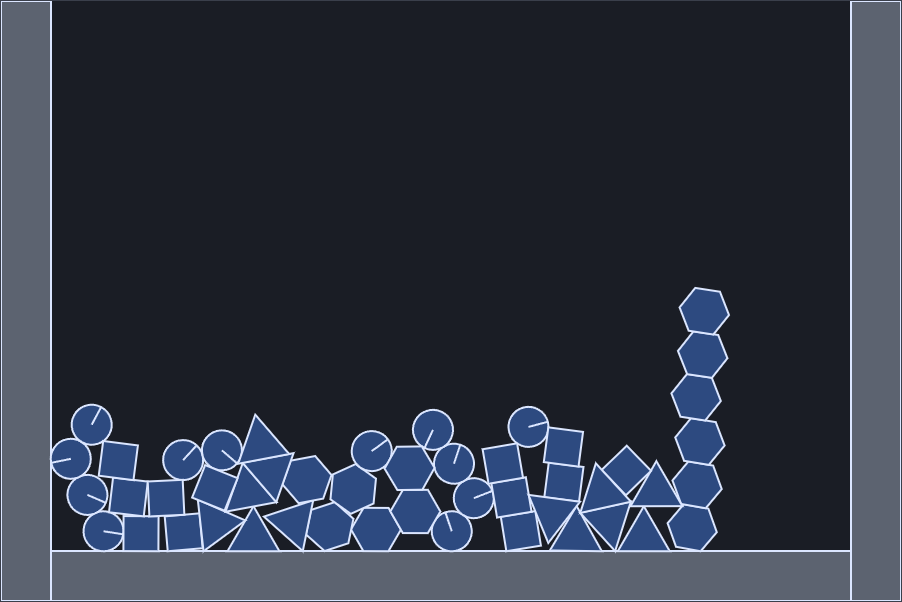
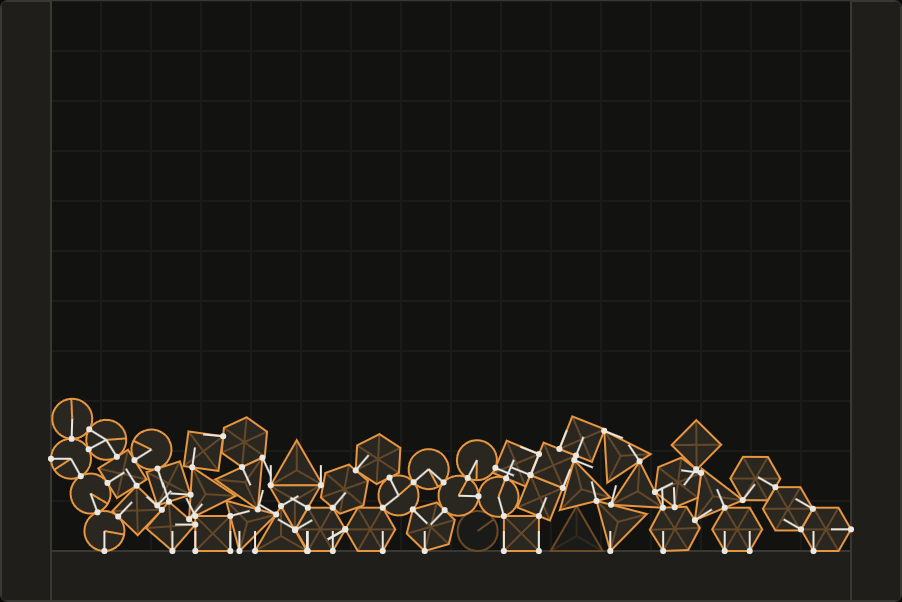
re-shoot impulse post images in the new demo design

diff --git a/posts/impulse-physics-engine.html b/posts/impulse-physics-engine.html
@@ -132,29 +132,29 @@ advance(frameSeconds: <span class="kw">number</span>): <span class="kw">number</
       <h2 id="what-it-looks-like">what it looks like</h2>
 
       <figure>
-        <img src="img/impulse-pyramid.png" width="902" height="602" alt="A pyramid of 55 boxes drawn in dark blue on a dark background." loading="lazy">
-        <figcaption>a pyramid of 55 boxes, six seconds in. the darker blue means the bodies are asleep: the solver has stopped spending time on them.</figcaption>
+        <img src="img/impulse-pyramid.png" width="902" height="602" alt="A pyramid of 55 boxes drawn with dim amber outlines on a dark grid." loading="lazy">
+        <figcaption>a pyramid of 55 boxes, six seconds in. the dim outlines mean the bodies are asleep: the solver has stopped spending time on them.</figcaption>
       </figure>
 
       <figure>
-        <img src="img/impulse-polygons.png" width="902" height="602" alt="A pile of circles, boxes, triangles and hexagons in a walled container, with red contact points and normals." loading="lazy">
-        <figcaption>a mixed pile of circles, boxes, triangles and hexagons. the red dots and lines are contact points and normals, drawn straight from the solver's data.</figcaption>
+        <img src="img/impulse-polygons.png" width="902" height="602" alt="A pile of circles, boxes, triangles and hexagons in a walled container, with white contact points and normals." loading="lazy">
+        <figcaption>a mixed pile of circles, boxes, triangles and hexagons. the white dots and lines are contact points and normals, drawn straight from the solver's data.</figcaption>
       </figure>
 
       <div class="pair">
         <figure>
-          <img src="img/impulse-wrecking.png" width="902" height="602" alt="A ten-box tower in dark blue with a wrecking ball on a rope swinging toward it." loading="lazy">
+          <img src="img/impulse-wrecking.png" width="902" height="602" alt="A ten-box tower in dim amber with a wrecking ball on a rope swinging toward it." loading="lazy">
           <figcaption>a 10-box tower asleep, a wrecking ball on a rope swinging in.</figcaption>
         </figure>
         <figure>
-          <img src="img/impulse-wrecking-hit.png" width="902" height="602" alt="The same tower in bright blue after the ball hit it, with two boxes knocked off the top." loading="lazy">
+          <img src="img/impulse-wrecking-hit.png" width="902" height="602" alt="The same tower in bright amber after the ball hit it, with two boxes knocked off the top." loading="lazy">
           <figcaption>under half a second later: the ball hit, the tower woke up, and it lost its top two boxes.</figcaption>
         </figure>
       </div>
 
       <figure>
-        <img src="img/impulse-joints.png" width="902" height="602" alt="A motor-driven paddle, a hinged arm and a spring with a ball, drawn with green joint markers." loading="lazy">
-        <figcaption>the joints scene: a motor-driven paddle, a hinge that stops at its angle limits, and a spring. green marks the joints.</figcaption>
+        <img src="img/impulse-joints.png" width="902" height="602" alt="A motor-driven paddle, a hinged arm and a spring with a ball, drawn with light grey joint markers." loading="lazy">
+        <figcaption>the joints scene: a motor-driven paddle, a hinge that stops at its angle limits, and a spring. light grey marks the joints.</figcaption>
       </figure>
 
       <h2 id="the-numbers">the numbers</h2>

diff --git a/src/posts/impulse-physics-engine.html b/src/posts/impulse-physics-engine.html
@@ -61,29 +61,29 @@ advance(frameSeconds: <span class="kw">number</span>): <span class="kw">number</
       <h2>what it looks like</h2>
 
       <figure>
-        <img src="img/impulse-pyramid.png" width="902" height="602" alt="A pyramid of 55 boxes drawn in dark blue on a dark background." loading="lazy">
-        <figcaption>a pyramid of 55 boxes, six seconds in. the darker blue means the bodies are asleep: the solver has stopped spending time on them.</figcaption>
+        <img src="img/impulse-pyramid.png" width="902" height="602" alt="A pyramid of 55 boxes drawn with dim amber outlines on a dark grid." loading="lazy">
+        <figcaption>a pyramid of 55 boxes, six seconds in. the dim outlines mean the bodies are asleep: the solver has stopped spending time on them.</figcaption>
       </figure>
 
       <figure>
-        <img src="img/impulse-polygons.png" width="902" height="602" alt="A pile of circles, boxes, triangles and hexagons in a walled container, with red contact points and normals." loading="lazy">
-        <figcaption>a mixed pile of circles, boxes, triangles and hexagons. the red dots and lines are contact points and normals, drawn straight from the solver's data.</figcaption>
+        <img src="img/impulse-polygons.png" width="902" height="602" alt="A pile of circles, boxes, triangles and hexagons in a walled container, with white contact points and normals." loading="lazy">
+        <figcaption>a mixed pile of circles, boxes, triangles and hexagons. the white dots and lines are contact points and normals, drawn straight from the solver's data.</figcaption>
       </figure>
 
       <div class="pair">
         <figure>
-          <img src="img/impulse-wrecking.png" width="902" height="602" alt="A ten-box tower in dark blue with a wrecking ball on a rope swinging toward it." loading="lazy">
+          <img src="img/impulse-wrecking.png" width="902" height="602" alt="A ten-box tower in dim amber with a wrecking ball on a rope swinging toward it." loading="lazy">
           <figcaption>a 10-box tower asleep, a wrecking ball on a rope swinging in.</figcaption>
         </figure>
         <figure>
-          <img src="img/impulse-wrecking-hit.png" width="902" height="602" alt="The same tower in bright blue after the ball hit it, with two boxes knocked off the top." loading="lazy">
+          <img src="img/impulse-wrecking-hit.png" width="902" height="602" alt="The same tower in bright amber after the ball hit it, with two boxes knocked off the top." loading="lazy">
           <figcaption>under half a second later: the ball hit, the tower woke up, and it lost its top two boxes.</figcaption>
         </figure>
       </div>
 
       <figure>
-        <img src="img/impulse-joints.png" width="902" height="602" alt="A motor-driven paddle, a hinged arm and a spring with a ball, drawn with green joint markers." loading="lazy">
-        <figcaption>the joints scene: a motor-driven paddle, a hinge that stops at its angle limits, and a spring. green marks the joints.</figcaption>
+        <img src="img/impulse-joints.png" width="902" height="602" alt="A motor-driven paddle, a hinged arm and a spring with a ball, drawn with light grey joint markers." loading="lazy">
+        <figcaption>the joints scene: a motor-driven paddle, a hinge that stops at its angle limits, and a spring. light grey marks the joints.</figcaption>
       </figure>
 
       <h2>the numbers</h2>

diff --git a/index.html b/index.html
@@ -140,7 +140,7 @@
           <p class="stack-card__links"><a class="roll" href="posts/impulse-physics-engine"><span class="roll__in" data-text="write-up">write-up</span></a><a class="roll" href="https://github.com/kaan0d/impulse" target="_blank" rel="noopener"><span class="roll__in" data-text="source">source</span></a></p>
         </div>
         <div class="stack-card__visual media">
-          <img src="posts/img/impulse-pyramid.png" width="902" height="602" alt="Impulse demo: a ten-row pyramid of blue boxes resting stable on a grey floor." loading="lazy">
+          <img src="posts/img/impulse-pyramid.png" width="902" height="602" alt="Impulse demo: a ten-row pyramid of boxes with dim amber outlines resting stable on a dark floor." loading="lazy">
         </div>
       </div>
     </article>

diff --git a/src/index.html b/src/index.html
@@ -83,7 +83,7 @@
           <p class="stack-card__links"><a class="roll" href="posts/impulse-physics-engine">${ROLL}write-up</a><a class="roll" href="https://github.com/kaan0d/impulse" target="_blank" rel="noopener">${ROLL}source</a></p>
         </div>
         <div class="stack-card__visual media">
-          <img src="posts/img/impulse-pyramid.png" width="902" height="602" alt="Impulse demo: a ten-row pyramid of blue boxes resting stable on a grey floor." loading="lazy">
+          <img src="posts/img/impulse-pyramid.png" width="902" height="602" alt="Impulse demo: a ten-row pyramid of boxes with dim amber outlines resting stable on a dark floor." loading="lazy">
         </div>
       </div>
     </article>
